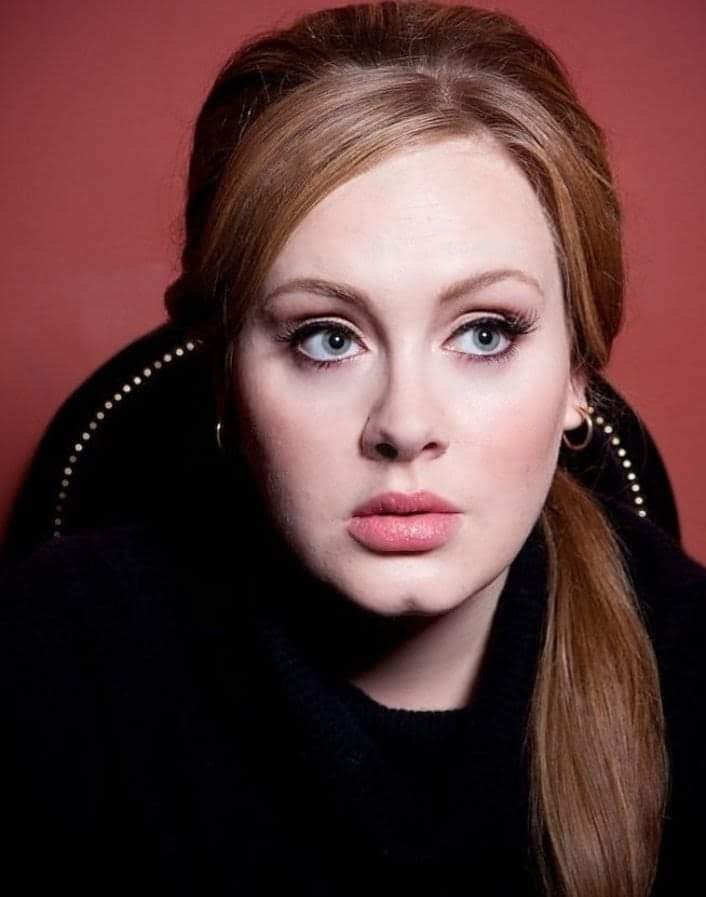
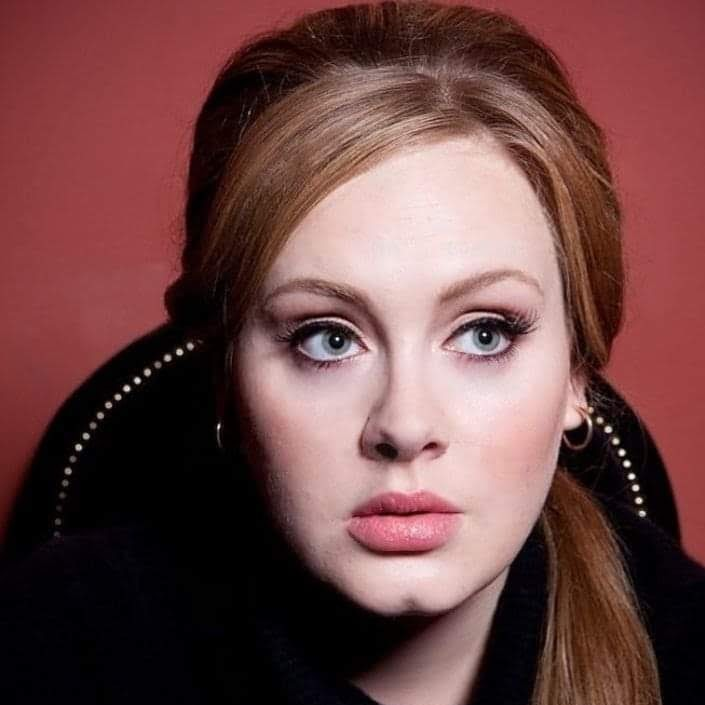
Imagenes aleatorias 21, 25 y 30

diff --git a/main.js b/main.js
@@ -32,6 +32,10 @@ function verificadorEra(){
         document.getElementById("btn2").disabled=false;
         document.getElementById("era").disabled=true;
     }
+
+    if(era.value == 19 || era.value == 21 || era.value ==25 || era.value ==30){
+        document.getElementById("eras").innerText="Ahora presiona el botón para obtenerlo"
+    }
 }
 
 function era19(){
@@ -43,6 +47,10 @@ function era19(){
     document.getElementById("img").src="https://cutt.ly/QL1FMiR";
     let bo = document.getElementById("e")
         bo.style.color="#D5951C"
+    let bc = document.getElementById("btn1")
+        bc.style.backgroundColor="#D5951C"
+    let bt = document.getElementById("e")
+        bt.style.fontFamily="'Edu TAS Beginner', cursive"
 
 }
 
@@ -55,6 +63,10 @@ function era21(){
     document.getElementById("img").src="https://cutt.ly/CL1FnBv";
     let bo = document.getElementById("e")
         bo.style.color="#81BD00"
+    let bc = document.getElementById("btn1")
+        bc.style.backgroundColor="#81BD00"
+    let bt = document.getElementById("e")
+        bt.style.fontFamily="'Barlow', sans-serif"
 }
 
 function era25(){
@@ -65,6 +77,10 @@ function era25(){
     document.getElementById("img").src="https://cutt.ly/JL1FOmi";
     let bo = document.getElementById("e")
         bo.style.color="#BC0000"
+    let bc = document.getElementById("btn1")
+        bc.style.backgroundColor="#BC0000"
+    let bt = document.getElementById("e")
+        bt.style.fontFamily="'Teko', sans-serif"
 }
 
 function era30(){
@@ -75,6 +91,10 @@ function era30(){
     document.getElementById("img").src="https://cutt.ly/6L1FJID";
     let bo = document.getElementById("e")
         bo.style.color="#B2A200"
+    let bc = document.getElementById("btn1")
+        bc.style.backgroundColor="#B2A200"
+    let bt = document.getElementById("e")
+        bt.style.fontFamily="'Didact Gothic', sans-serif"
 }
 
 // function cambioId(){
@@ -157,7 +177,7 @@ function nueva21(){
         {'song': 'Rumour Has It'},
         {'song': 'One and Only'},
     ];
-
+    imgAle21()
 
     let fraseAle = Math.round(Math.random() *11)
     // let imagenAle = Math.round(Math.random() *3)
@@ -181,7 +201,7 @@ function nueva25(){
         {'song': 'River Lea'},
         {'song': 'Million Years Ago'},
     ];
-
+    imgAle25();
 
     let fraseAle = Math.round(Math.random() *11)
     // let imagenAle = Math.round(Math.random() *3)
@@ -205,7 +225,7 @@ function nueva30(){
         {'song': 'All Nigth Parking'},
         {'song': 'To Be Loved'},
     ];
-
+    imgAle30();
 
     let fraseAle = Math.round(Math.random() *11)
     // let imagenAle = Math.round(Math.random() *3)
@@ -235,6 +255,76 @@ function imgAle19(){
     let selectedImg = imgArray[randomIndex]
 
     document.getElementById("img1").src = `./imagenes19/${selectedImg}`
+    document.getElementById("img1").style.width="150px"
+
+}
+
+function imgAle21(){
+    let imgArray = [
+        'a1.jpeg', 'a2.jpeg',
+        'a3.jpeg', 'a4.jpeg',
+        'a5.jpeg', 'a6.jpeg',
+        'a7.jpeg', 'a8.jpeg',
+        'a9.jpeg', 'a10.jpeg',
+        'a11.jpeg','a12.jpeg',
+        'a13.jpeg','a14.jpeg',
+        'a15.jpeg','a16.jpeg',
+        'a17.jpeg','a18.jpeg',
+        'a19.jpeg','a20.jpeg'
+    ];
+
+    let randomIndex = Math.floor(Math.random()*imgArray.length)
+    console.log(randomIndex)
+
+    let selectedImg = imgArray[randomIndex]
+
+    document.getElementById("img1").src = `./imagenes21/${selectedImg}`
+
+}
+
+function imgAle25(){
+    let imgArray = [
+        'a1.jpeg', 'a2.jpeg',
+        'a3.jpeg', 'a4.jpeg',
+        'a5.jpeg', 'a6.jpeg',
+        'a7.jpeg', 'a8.jpeg',
+        'a9.jpeg', 'a10.jpeg',
+        'a11.jpeg','a12.jpeg',
+        'a13.jpeg','a14.jpeg',
+        'a15.jpeg','a16.jpeg',
+        'a17.jpeg','a18.jpeg',
+        'a19.jpeg','a20.jpeg'
+    ];
+
+    let randomIndex = Math.floor(Math.random()*imgArray.length)
+    console.log(randomIndex)
+
+    let selectedImg = imgArray[randomIndex]
+
+    document.getElementById("img1").src = `./imagenes25/${selectedImg}`
+
+}
+
+function imgAle30(){
+    let imgArray = [
+        'a1.jpeg', 'a2.jpeg',
+        'a3.jpeg', 'a4.jpeg',
+        'a5.jpeg', 'a6.jpeg',
+        'a7.jpeg', 'a8.jpeg',
+        'a9.jpeg', 'a10.jpeg',
+        'a11.jpeg','a12.jpeg',
+        'a13.jpeg','a14.jpeg',
+        'a15.jpeg','a16.jpeg',
+        'a17.jpeg','a18.jpeg',
+        'a19.jpeg','a20.jpeg'
+    ];
+
+    let randomIndex = Math.floor(Math.random()*imgArray.length)
+    console.log(randomIndex)
+
+    let selectedImg = imgArray[randomIndex]
+
+    document.getElementById("img1").src = `./imagenes30/${selectedImg}`
 
 }
 

diff --git a/index.html b/index.html
@@ -5,12 +5,15 @@
     <meta http-equiv="X-UA-Compatible" content="IE=edge">
     <meta name="viewport" content="width=device-width, initial-scale=1.0">
     <link rel="stylesheet" href="style.css">
+    <link rel="preconnect" href="https://fonts.googleapis.com">
+    <link rel="preconnect" href="https://fonts.gstatic.com" crossorigin>
+    <link href="https://fonts.googleapis.com/css2?family=Barlow:wght@200&family=Didact+Gothic&family=Edu+TAS+Beginner&family=Teko:wght@500&display=swap" rel="stylesheet">
     <title>Diosadele</title>
 </head>
 <body id="bod">
     <div id="entorno">
         <h1>ADELE <div id="e"></div></h1>
-        <img src="https://cutt.ly/VL3f4vC" width="200px" id="img">
+        <img src="https://cutt.ly/VL3f4vC" width="100px" id="img">
         <h2 id="frase"></h2>
         <p>Bienvenido a la página que te dará una foto y una canción al azar</p>
         <p>Primero selecciona la era</p>
@@ -24,7 +27,7 @@
         <br>
         <input type="button" value="Enter" onclick="verificadorEra()" id="btn1">
         <br>
-        <br>
+        
         <div id="des"></div>
         <br>
         <div id="photo">
@@ -32,7 +35,7 @@
         </div>
         <br>
         <div id="eras"></div>
-        <br><br>
+        <br>
         <div id="es">
             <input id="btn2" type="button" value="Enter" onclick="verificadorA()" >
             

diff --git a/style.css b/style.css
@@ -1,5 +1,6 @@
 h1, h2{
     text-align: center;
+    color: aliceblue;
 }
 
 img, select, input{
@@ -9,23 +10,32 @@ img, select, input{
 
 p{
     text-align: center;
+    color: aliceblue;
 }
 
 div #es{
     text-align: center;
+    color: aliceblue;
 }
 
 div #eras, #des{
     text-align: center;
+    color: aliceblue;
 }
 
-div #eras #btn-styled{
-    background-color: yellow;
-}
 
 div #es{
     display: none;
 }
 
+#btn1:hover{
+    background-color: #37d480;
+    color: black;
+    border: none;
+}
 
+
+body{
+    background:black;
+}
 
